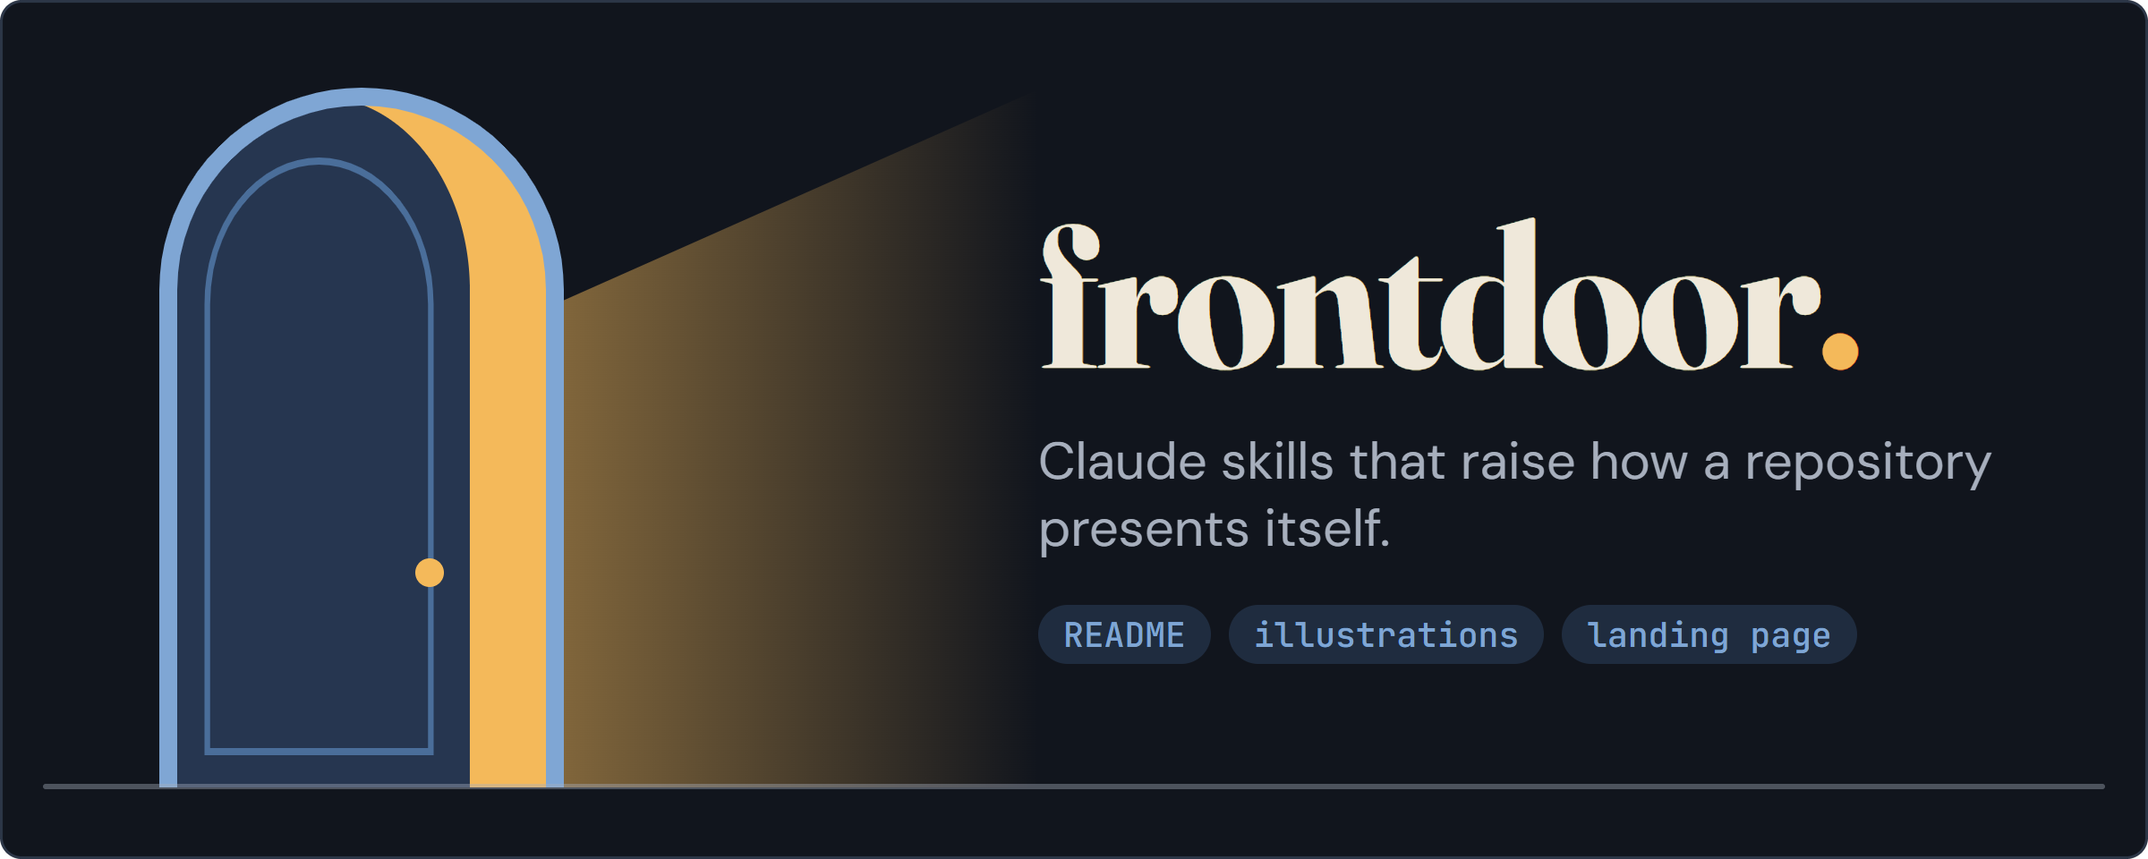
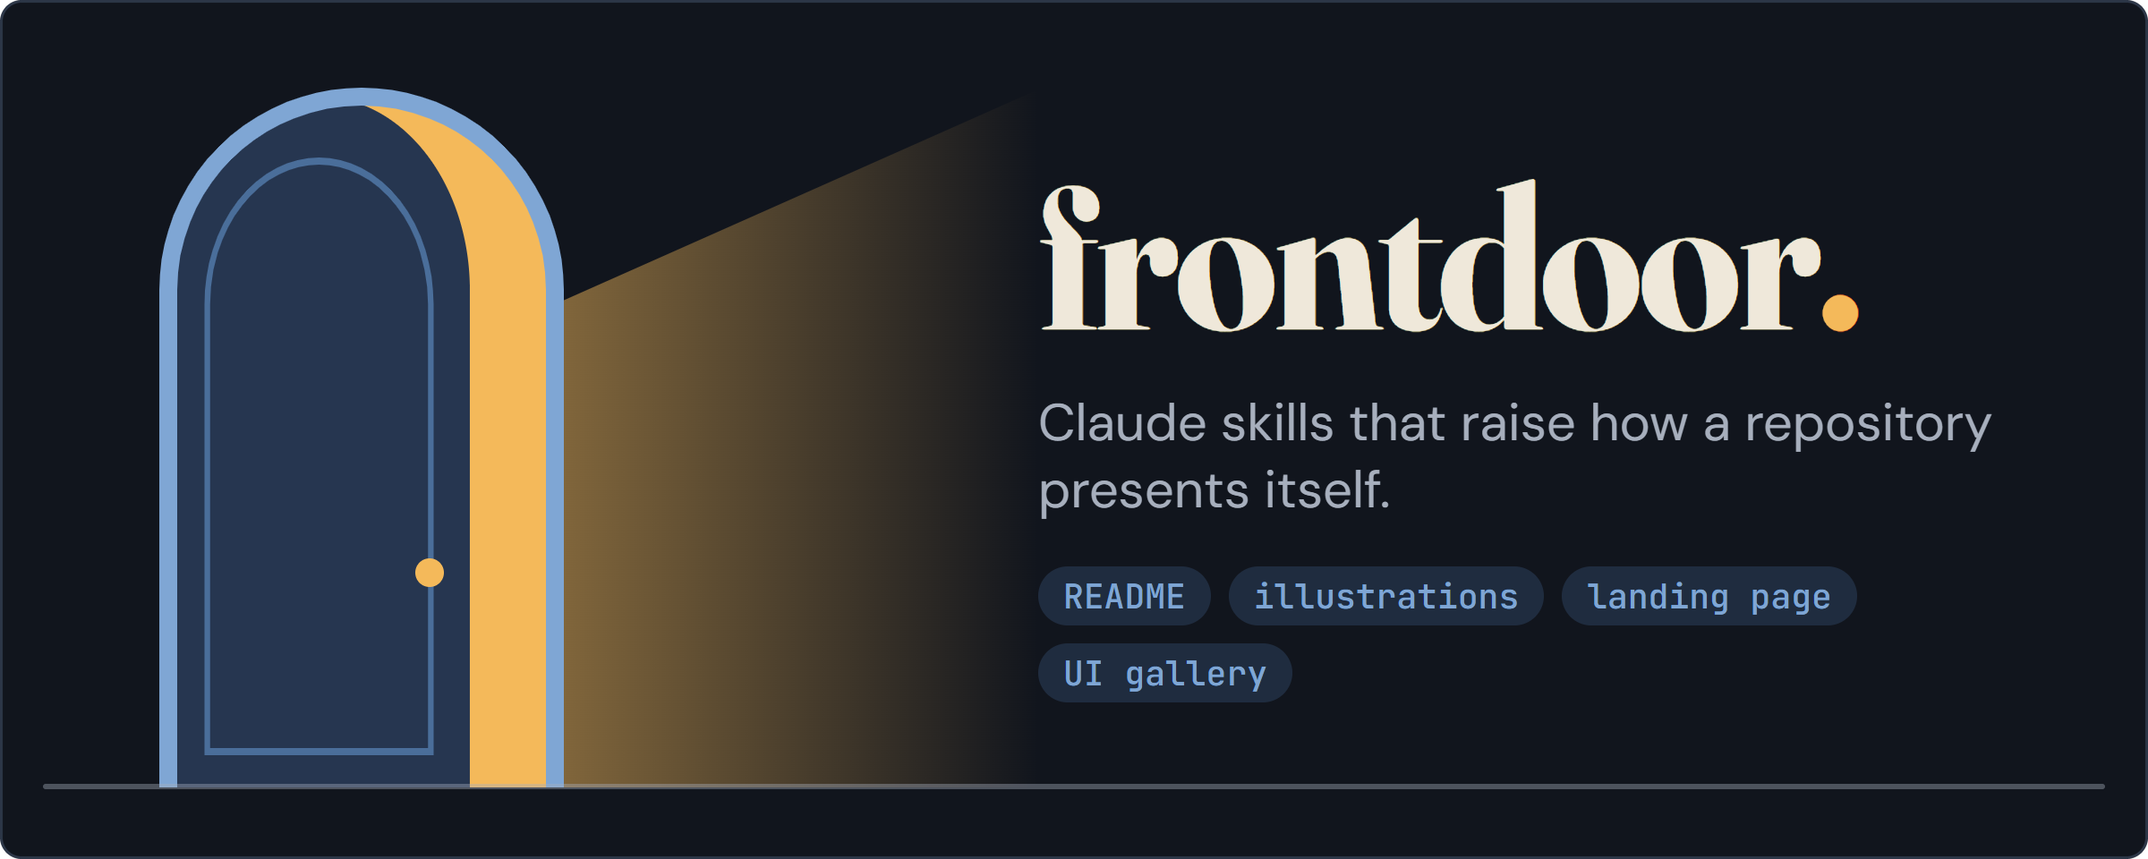
docs(readme-design): present the ui-gallery skill in the README
Why:
- The README listed three skills; the new frontdoor-ui-gallery skill needs its place in the lead, the skills table, a scene with its flow, the requirements, the behaviour notes and the status.
- The hero and the skills map are redrawn so the pictures name the same set of skills as the text.

Changes:
- README.md: hero alt text - adds "UI gallery" to the labels; lead sentence - adds the gallery of every screen and state; skills-map alt text - extended for the new card
- README.md: skills table - new frontdoor-ui-gallery row with when to use it and what it produces
- README.md: new frontdoor-ui-gallery section - scene picture, one explanatory paragraph, and the nine-step flow picture inside a details block
- README.md: install example and requirements - adds "show me every screen of this app" as a plain request, the app's own package manager, and Windows PowerShell for built-app screenshots
- README.md: behaviour and status notes - the gallery/ mock folder and separate dev config, design/ui-gallery/ left for the user to commit, and the run on three desktop apps
- assets/source/readme.html: skills-map height 630 to 860 px, new .wide card rules, a "UI gallery" hero chip, a wide frontdoor-ui-gallery card with in and out text, and a new ui-gallery-flow item of nine step cards with wires
[…]

Changed region(s): [[0.4688, 0.4688, 0.9375, 0.8438], [0.4688, 0.1875, 0.875, 0.4375]]

diff --git a/assets/source/readme.html b/assets/source/readme.html
@@ -23,7 +23,7 @@
 #hero .chips { display: flex; gap: 10px; flex-wrap: wrap; margin-top: 6px; }
 
 /* skills-map */
-#skills-map { height: 630px; }
+#skills-map { height: 860px; }
 #skills-map .map { position: absolute; inset: 0; padding: 36px 35px 0; display: flex; flex-direction: column; }
 #skills-map .row { display: flex; align-items: stretch; height: 500px; }
 #skills-map .skill { width: 310px; flex: none; padding: 52px 28px 28px; display: flex; flex-direction: column; align-items: center; text-align: center; }
@@ -34,6 +34,11 @@
 #skills-map .io.in p { color: var(--muted); }
 #skills-map .link { width: 100px; flex: none; align-self: center; display: flex; flex-direction: column; align-items: center; gap: 12px; }
 #skills-map .link .mono { font-size: 17px; font-weight: 500; line-height: 1.2; text-align: center; color: var(--amber-ink); }
+#skills-map .wide { margin-top: 26px; height: 200px; flex: none; display: flex; align-items: center; gap: 30px; padding: 0 36px; border-radius: 20px; }
+#skills-map .wide .who { width: 360px; flex: none; display: flex; align-items: center; gap: 20px; }
+#skills-map .wide .nm { white-space: nowrap; }
+#skills-map .wide .io { margin-top: 0; flex: 1; width: auto; }
+#skills-map .wide .io.in { min-height: 0; }
 #skills-map .foot { margin-top: 30px; display: flex; align-items: center; gap: 16px; font-size: 21px; color: var(--muted); }
 #skills-map .foot::before { content: ""; flex: none; width: 36px; height: 3px; background: var(--amber); border-radius: 2px; }
 </style>
@@ -71,7 +76,7 @@
   <div class="word">
     <h1 class="display">frontdoor<i>.</i></h1>
     <p class="sub">Claude skills that raise how a repository presents itself.</p>
-    <div class="chips"><span class="chip">README</span><span class="chip">illustrations</span><span class="chip">landing page</span></div>
+    <div class="chips"><span class="chip">README</span><span class="chip">illustrations</span><span class="chip">landing page</span><span class="chip">UI gallery</span></div>
   </div>
 </div>
 
@@ -98,6 +103,14 @@
         <div class="io in"><span class="eyebrow">in</span><p>A repository with no landing page</p></div>
         <div class="io"><span class="eyebrow">out</span><p>One index.html with an Open Graph preview</p></div>
       </div>
+    </div>
+    <div class="card wide">
+      <div class="who">
+        <div class="glow"><svg viewBox="0 0 64 64"><rect x="6" y="10" width="23" height="19" rx="4"/><rect x="35" y="10" width="23" height="19" rx="4" class="al" style="fill: var(--amber-soft)"/><rect x="6" y="35" width="23" height="19" rx="4"/><rect x="35" y="35" width="23" height="19" rx="4"/><path d="M10 47h10M39 47h12"/></svg></div>
+        <div class="nm">frontdoor-ui-gallery</div>
+      </div>
+      <div class="io in"><span class="eyebrow">in</span><p>An app whose screens and states nobody has seen side by side</p></div>
+      <div class="io"><span class="eyebrow">out</span><p>Every state in light and dark from a mocked frontend, on one review page</p></div>
     </div>
     <div class="foot">Each skill carries its own scripts and references. Install one folder and it works alone.</div>
   </div>
@@ -232,6 +245,52 @@
   <div class="card step" style="left: 830px; top: 520px; width: 340px; height: 160px">
     <div class="hd"><span class="badge">8</span><span class="tt">Report</span></div>
     <p class="ds">Files written, the Pages setting to switch on, what was not observed. No commit.</p>
+  </div>
+</div>
+
+<div class="item" id="ui-gallery-flow" style="height: 720px">
+  <svg class="wires" width="1200" height="720" viewBox="0 0 1200 720" aria-hidden="true">
+    <path class="w" d="M370 120H426"/><path class="w" d="M770 120H826"/>
+    <path class="w" d="M1000 200V240H200V274"/>
+    <path class="w" d="M370 360H426"/><path class="w" d="M770 360H826"/>
+    <path class="w" d="M1000 440V480H200V514"/>
+    <path class="w" d="M370 600H426"/><path class="w" d="M770 600H826"/>
+  </svg>
+  <div class="card step" style="left: 30px; top: 40px; width: 340px; height: 160px">
+    <div class="hd"><span class="badge">1</span><span class="tt">Read the rules</span></div>
+    <p class="ds">AGENTS.md, the stack, one reference for the backend and one for the frontend.</p>
+  </div>
+  <div class="card step" style="left: 430px; top: 40px; width: 340px; height: 160px">
+    <div class="hd"><span class="badge">2</span><span class="tt">Find the seam</span></div>
+    <p class="ds">The narrowest module the UI calls the backend through.</p>
+  </div>
+  <div class="card step" style="left: 830px; top: 40px; width: 340px; height: 160px">
+    <div class="hd"><span class="badge">3</span><span class="tt">List the states</span></div>
+    <p class="ds">Every view and state, from the real types and error texts.</p>
+  </div>
+  <div class="card step" style="left: 30px; top: 280px; width: 340px; height: 160px">
+    <div class="hd"><span class="badge">4</span><span class="tt">Mock it</span></div>
+    <p class="ds">Typed mocks in a separate dev config, never in the build.</p>
+  </div>
+  <div class="card step" style="left: 430px; top: 280px; width: 340px; height: 160px">
+    <div class="hd"><span class="badge">5</span><span class="tt">Render</span></div>
+    <p class="ds">shoot.py takes every state in light and dark, as WebP.</p>
+  </div>
+  <div class="card step" style="left: 830px; top: 280px; width: 340px; height: 160px">
+    <div class="hd"><span class="badge">6</span><span class="tt">Look</span></div>
+    <p class="ds">Every image. Each observation confirmed in the DOM first.</p>
+  </div>
+  <div class="card step" style="left: 30px; top: 520px; width: 340px; height: 160px">
+    <div class="hd"><span class="badge">7</span><span class="tt">Built app</span></div>
+    <p class="ds">Screenshots of the real windows, account paths painted over.</p>
+  </div>
+  <div class="card step" style="left: 430px; top: 520px; width: 340px; height: 160px">
+    <div class="hd"><span class="badge">8</span><span class="tt">Verify</span></div>
+    <p class="ds">Type check, a build with no fixture in it, the page at 390 and 1440 px.</p>
+  </div>
+  <div class="card step" style="left: 830px; top: 520px; width: 340px; height: 160px">
+    <div class="hd"><span class="badge">9</span><span class="tt">Report</span></div>
+    <p class="ds">Files, states, observations, what was not checked. No commit.</p>
   </div>
 </div>
 

diff --git a/assets/source/scenes.html b/assets/source/scenes.html
@@ -300,6 +300,51 @@
   <div class="tag cool" style="left: 930px; top: 556px">Open Graph preview</div>
 </div>
 
+<div class="item" id="scene-ui-gallery">
+  <div class="head"><div class="nm">frontdoor-ui-gallery</div><p class="hl display">Every screen of an app, hung side by side in one gallery.</p></div>
+  <svg class="scn" width="1200" height="600" viewBox="0 0 1200 600" aria-hidden="true">
+    <defs>
+      <linearGradient id="beam-g" x1="0" x2="0" y1="0" y2="1">
+        <stop offset="0" style="stop-color: var(--amber); stop-opacity: 0.45"/>
+        <stop offset="1" style="stop-color: var(--amber); stop-opacity: 0"/>
+      </linearGradient>
+    </defs>
+    <circle cx="790" cy="320" r="270" class="f-soft"/>
+    <rect x="0" y="505" width="1200" height="95" class="f-ground"/>
+
+    <rect x="54" y="216" width="266" height="214" rx="16" class="f-shadow" transform="translate(6 10)"/>
+    <rect x="54" y="216" width="266" height="214" rx="16" class="f-code" stroke-width="2.5" style="stroke: var(--cardline)"/>
+    <circle cx="80" cy="240" r="6" class="f-amber"/><circle cx="100" cy="240" r="6" class="f-sage"/><circle cx="120" cy="240" r="6" style="fill: var(--sky-2)"/>
+    <text class="mono-t" x="78" y="290" style="fill: #9fbfdc; font-size: 18px">?state=running</text>
+    <text class="mono-t" x="78" y="326" style="fill: #f4b95a; font-size: 18px">?state=stopped</text>
+    <text class="mono-t" x="78" y="362" style="fill: #ff99a4; font-size: 18px">?state=failed</text>
+    <text class="mono-t" x="78" y="398" style="fill: #86b595; font-size: 18px">?state=confirm</text>
+
+    <path d="M326 322C352 322 360 300 380 290" fill="none" stroke-width="4" stroke-linecap="round" stroke-dasharray="2 12" style="stroke: var(--amber)"/>
+    <use href="#spark" transform="translate(352 262) scale(0.7)" class="f-amber"/>
+
+    <rect x="396" y="150" width="770" height="8" rx="4" class="f-door"/>
+    <g id="pairs"></g>
+
+    <g transform="rotate(-4 520 420)">
+      <rect x="470" y="396" width="98" height="44" rx="8" class="f-sage"/>
+      <text x="519" y="425" text-anchor="middle" style="font: 700 19px 'DM Sans', system-ui, sans-serif; fill: #11151d">Keep</text>
+    </g>
+    <g transform="rotate(5 776 420)">
+      <rect x="724" y="398" width="108" height="44" rx="8" class="f-amber"/>
+      <text x="778" y="427" text-anchor="middle" style="font: 700 19px 'DM Sans', system-ui, sans-serif; fill: #1e2430">Revise</text>
+    </g>
+
+    <circle cx="1060" cy="300" r="46" fill="none" stroke-width="9" class="s-door"/>
+    <circle cx="1060" cy="300" r="46" class="f-card" opacity="0.25"/>
+    <path d="M1094 334L1136 376" stroke-width="13" stroke-linecap="round" class="s-door"/>
+    <use href="#spark" transform="translate(1180 176) scale(0.8)" class="f-amber"/>
+  </svg>
+  <div class="tag cool" style="left: 70px; top: 452px">mocked backend</div>
+  <div class="tag warm" style="left: 520px; top: 470px">light and dark, every state</div>
+  <div class="tag quiet" style="left: 978px; top: 410px">observed</div>
+</div>
+
 </div>
 <script>
 function lines(id, x, y, w, n, gap, h, seed) {
@@ -315,6 +360,42 @@ function lines(id, x, y, w, n, gap, h, seed) {
   }
 }
 lines("lines-r", 104, 204, 226, 13, 14, 7, 1.7);
+
+function pairs(id) {
+  // Three hung pairs of app screens: a light and a dark render of the same state, under a gallery lamp each.
+  const g = document.getElementById(id), NS = "http://www.w3.org/2000/svg";
+  const add = (tag, attrs) => { const e = document.createElementNS(NS, tag); for (const k in attrs) e.setAttribute(k, attrs[k]); g.appendChild(e); return e; };
+  const themes = {
+    light: { bg: "#f3f3f3", card: "#ffffff", line: "#d9dde3", text: "#5f5f5f", accent: "#005fb8", ok: "#0f7b0f", bad: "#c42b1c" },
+    dark: { bg: "#202020", card: "#2d2d2d", line: "#3a3a3a", text: "#c5c5c5", accent: "#60cdff", ok: "#6ccb5f", bad: "#ff99a4" },
+  };
+  const states = ["running", "stopped", "confirm"];
+  states.forEach((st, i) => {
+    const x0 = 420 + i * 250, y0 = 200;
+    add("polygon", { points: `${x0 + 100},158 ${x0 + 130},158 ${x0 + 236},372 ${x0 - 6},372`, fill: "url(#beam-g)" });
+    add("rect", { x: x0 + 104, y: 156, width: 22, height: 12, rx: 3, class: "f-amber" });
+    ["light", "dark"].forEach((th, j) => {
+      const t = themes[th], x = x0 + j * 122, w = 108, h = 170;
+      add("path", { d: `M${x + 18} ${y0}L${x + w / 2} ${y0 - 26}L${x + w - 18} ${y0}`, fill: "none", "stroke-width": 2, style: "stroke: var(--muted)", opacity: 0.6 });
+      add("rect", { x: x + 4, y: y0 + 6, width: w, height: h, rx: 10, class: "f-shadow" });
+      add("rect", { x, y: y0, width: w, height: h, rx: 10, fill: t.bg, "stroke-width": 4, style: "stroke: var(--door)" });
+      const dot = st === "running" ? t.ok : st === "stopped" ? t.text : t.ok;
+      add("circle", { cx: x + 14, cy: y0 + 16, r: 4.5, fill: dot });
+      add("rect", { x: x + 24, y: y0 + 12, width: 44, height: 8, rx: 4, fill: t.text, opacity: 0.8 });
+      add("rect", { x: x + 10, y: y0 + 30, width: w - 20, height: 54, rx: 6, fill: t.card, stroke: t.line });
+      for (let r = 0; r < 3; r++) {
+        add("rect", { x: x + 16, y: y0 + 39 + r * 14, width: 30, height: 6, rx: 3, fill: t.text, opacity: 0.55 });
+        add("rect", { x: x + w - 44, y: y0 + 39 + r * 14, width: 28, height: 6, rx: 3, fill: st === "running" ? t.ok : t.text, opacity: 0.8 });
+      }
+      if (st === "stopped") add("rect", { x: x + 10, y: y0 + 92, width: w - 34, height: 6, rx: 3, fill: t.bad });
+      const btn = st === "confirm" ? t.bad : t.accent;
+      add("rect", { x: x + 10, y: y0 + 108, width: 42, height: 26, rx: 5, fill: btn });
+      add("rect", { x: x + 56, y: y0 + 108, width: 42, height: 26, rx: 5, fill: t.card, stroke: t.line });
+      add("rect", { x: x + 10, y: y0 + 146, width: 50, height: 6, rx: 3, fill: t.text, opacity: 0.45 });
+    });
+  });
+}
+pairs("pairs");
 </script>
 </body>
 </html>

diff --git a/README.md b/README.md
@@ -1,16 +1,17 @@
-<h1 align="center"><picture><source media="(prefers-color-scheme: dark)" srcset="assets/hero-dark.webp"><img src="assets/hero.webp" alt="frontdoor - Claude skills that raise how a repository presents itself. An arched door stands ajar and warm light spills out of it. Labels: README, illustrations, landing page." width="100%"></picture></h1>
+<h1 align="center"><picture><source media="(prefers-color-scheme: dark)" srcset="assets/hero-dark.webp"><img src="assets/hero.webp" alt="frontdoor - Claude skills that raise how a repository presents itself. An arched door stands ajar and warm light spills out of it. Labels: README, illustrations, landing page, UI gallery." width="100%"></picture></h1>
 
-**Claude skills that raise how a repository presents itself: a README built around pictures, illustrations rendered from HTML into light and dark pairs, and a single-file landing page for GitHub Pages.**
+**Claude skills that raise how a repository presents itself: a README built around pictures, illustrations rendered from HTML into light and dark pairs, a single-file landing page for GitHub Pages, and a gallery of every screen and state of an app's UI.**
 
 ## Skills
 
-<picture><source media="(prefers-color-scheme: dark)" srcset="assets/skills-map-dark.webp"><img src="assets/skills-map.webp" alt="Map of the skills, each an arched card. frontdoor-readme: in, no README, or a wall of text, ASCII diagrams or Mermaid; out, a complete README with a hero banner and light and dark pictures. frontdoor-illustrate: in, pictures with a look of their own, regenerated from text; out, rounded, bordered WebP, one light and one dark per HTML block. frontdoor-landing: in, a repository with no landing page; out, one index.html with an Open Graph preview. Dashed arrows labelled optional help run from frontdoor-readme and from frontdoor-landing to frontdoor-illustrate. Each skill carries its own scripts and references; install one folder and it works alone." width="100%"></picture>
+<picture><source media="(prefers-color-scheme: dark)" srcset="assets/skills-map-dark.webp"><img src="assets/skills-map.webp" alt="Map of the skills, each an arched card. frontdoor-readme: in, no README, or a wall of text, ASCII diagrams or Mermaid; out, a complete README with a hero banner and light and dark pictures. frontdoor-illustrate: in, pictures with a look of their own, regenerated from text; out, rounded, bordered WebP, one light and one dark per HTML block. frontdoor-landing: in, a repository with no landing page; out, one index.html with an Open Graph preview. Dashed arrows labelled optional help run from frontdoor-readme and from frontdoor-landing to frontdoor-illustrate. Below them, a wide card for frontdoor-ui-gallery: in, an app whose screens and states nobody has seen side by side; out, every state in light and dark from a mocked frontend, on one review page. Each skill carries its own scripts and references; install one folder and it works alone." width="100%"></picture>
 
 | Skill | Use it when | Result |
 |---|---|---|
 | `frontdoor-readme` | the README is missing, or a wall of text, ASCII diagrams or Mermaid | a complete README with a hero banner and `<picture>` light/dark image pairs, in a look drawn from your repository |
 | `frontdoor-illustrate` | you need pictures with a look of their own that regenerate from text | rounded, bordered WebP files, one light and one dark per HTML block |
 | `frontdoor-landing` | the repository has no landing page and should have one | a single `index.html` with Open Graph preview, checked at three widths in both themes |
+| `frontdoor-ui-gallery` | you want to see every screen and state of an app's UI, before a redesign or after one | every state rendered in light and dark from the real frontend with the backend mocked, on one page with a Keep, Revise or Discuss review per state |
 
 Each skill carries its own scripts and references. Install one folder and it works alone. Skills name each other only as optional help.
 
@@ -55,6 +56,19 @@ It looks for an existing landing page first and stops with its evidence when one
 
 </details>
 
+### frontdoor-ui-gallery
+
+<picture><source media="(prefers-color-scheme: dark)" srcset="assets/scene-ui-gallery-dark.webp"><img src="assets/scene-ui-gallery.webp" alt="Illustration for frontdoor-ui-gallery: every screen of an app, hung side by side in one gallery. On the left, a code window lists ?state=running, ?state=stopped, ?state=failed and ?state=confirm, labelled mocked backend. A dotted line leads to a gallery rail where three pairs of small app screens hang under lamps, each pair one light and one dark render of the same state: running, stopped with a red error line, and a confirmation with a red button. A green note reads Keep under the first pair and an amber note reads Revise under the second; a magnifying glass over the third is labelled observed. Under the pairs: light and dark, every state." width="100%"></picture>
+
+It renders the real frontend with fixed data per state, so a state that is hard to reach by hand is one click away, and the same gallery can be shot again after a redesign.
+
+<details>
+<summary>Step by step</summary>
+
+<picture><source media="(prefers-color-scheme: dark)" srcset="assets/ui-gallery-flow-dark.webp"><img src="assets/ui-gallery-flow.webp" alt="Flow of frontdoor-ui-gallery, in order. 1 Read the rules: AGENTS.md, the stack, one reference for the backend and one for the frontend. 2 Find the seam: the narrowest module the UI calls the backend through. 3 List the states: every view and state, from the real types and error texts. 4 Mock it: typed mocks in a separate dev config, never in the build. 5 Render: shoot.py takes every state in light and dark, as WebP. 6 Look: every image, each observation confirmed in the DOM first. 7 Built app: screenshots of the real windows, account paths painted over. 8 Verify: type check, a build with no fixture in it, the page at 390 and 1440 px. 9 Report: files, states, observations, what was not checked, and no commit." width="100%"></picture>
+
+</details>
+
 ## Install
 
 Install every skill, or one by name:
@@ -64,13 +78,14 @@ npx skills add https://github.com/the-khiem7/frontdoor.git
 npx skills add https://github.com/the-khiem7/frontdoor.git --skill frontdoor-landing
 ```
 
-Then ask in a plain sentence, for example "make the README nicer to read" or "add a GitHub Pages landing page".
+Then ask in a plain sentence, for example "make the README nicer to read", "add a GitHub Pages landing page" or "show me every screen of this app".
 
 ## Requirements
 
 - `uv` and `uvx` to run the scripts (`uvx --from playwright --with pillow python -I ...`).
 - Microsoft Edge or Google Chrome already installed. Nothing is downloaded and no administrator rights are needed.
-- Node.js with `npx` for the Lighthouse run in `frontdoor-landing`.
+- Node.js with `npx` for the Lighthouse run in `frontdoor-landing`, and the app's own package manager to serve its frontend for `frontdoor-ui-gallery`.
+- Windows PowerShell for the screenshots of the built app in `frontdoor-ui-gallery`; the mocked render runs anywhere Edge or Chrome does.
 
 ## Behaviour to know
 
@@ -78,6 +93,7 @@ Then ask in a plain sentence, for example "make the README nicer to read" or "ad
 - `frontdoor-landing` stops and shows its evidence when it finds an existing landing page, and asks where `index.html` should go before writing.
 - No look is shipped. Each repository gets its own signature: a vector shape language, a typeface and a way of presenting, derived from what the project is. Two repositories should not come out as one design with different text.
 - `frontdoor-readme` writes the complete README, and every sentence and command traces to the repository or to your answer. Every run ends with a hero banner.
+- `frontdoor-ui-gallery` adds a `gallery/` folder of typed mocks and a separate dev config to the app's frontend, and writes `design/ui-gallery/` for you to commit. The production build never imports the mocks, and the screenshots show what the frontend draws for the mocked data, not how the running app behaves.
 - Where nobody can answer a question, a skill takes the recommended default and writes the question and the assumed answer to `questions.md`.
 
 ## Status
@@ -85,7 +101,7 @@ Then ask in a plain sentence, for example "make the README nicer to read" or "ad
 <details>
 <summary>What was exercised and what was not</summary>
 
-Built and exercised on Windows with Edge. A trial on two real repositories, run with and without the skills, was preferred by a person for both the landing page and the README illustrations. Not yet observed: selection from a plain request, macOS or Linux, a page on its live GitHub Pages URL.
+Built and exercised on Windows with Edge. A trial on two real repositories, run with and without the skills, was preferred by a person for both the landing page and the README illustrations. `frontdoor-ui-gallery` was run end to end on three desktop apps: Wails v3 with Svelte, Wails v3 with Vue, and Tauri v2 with Vue, the last two by a fresh agent given only the skill folder. Not yet observed: selection from a plain request, macOS or Linux, a page on its live GitHub Pages URL, a gallery for a React or Electron app.
 
 </details>
 
